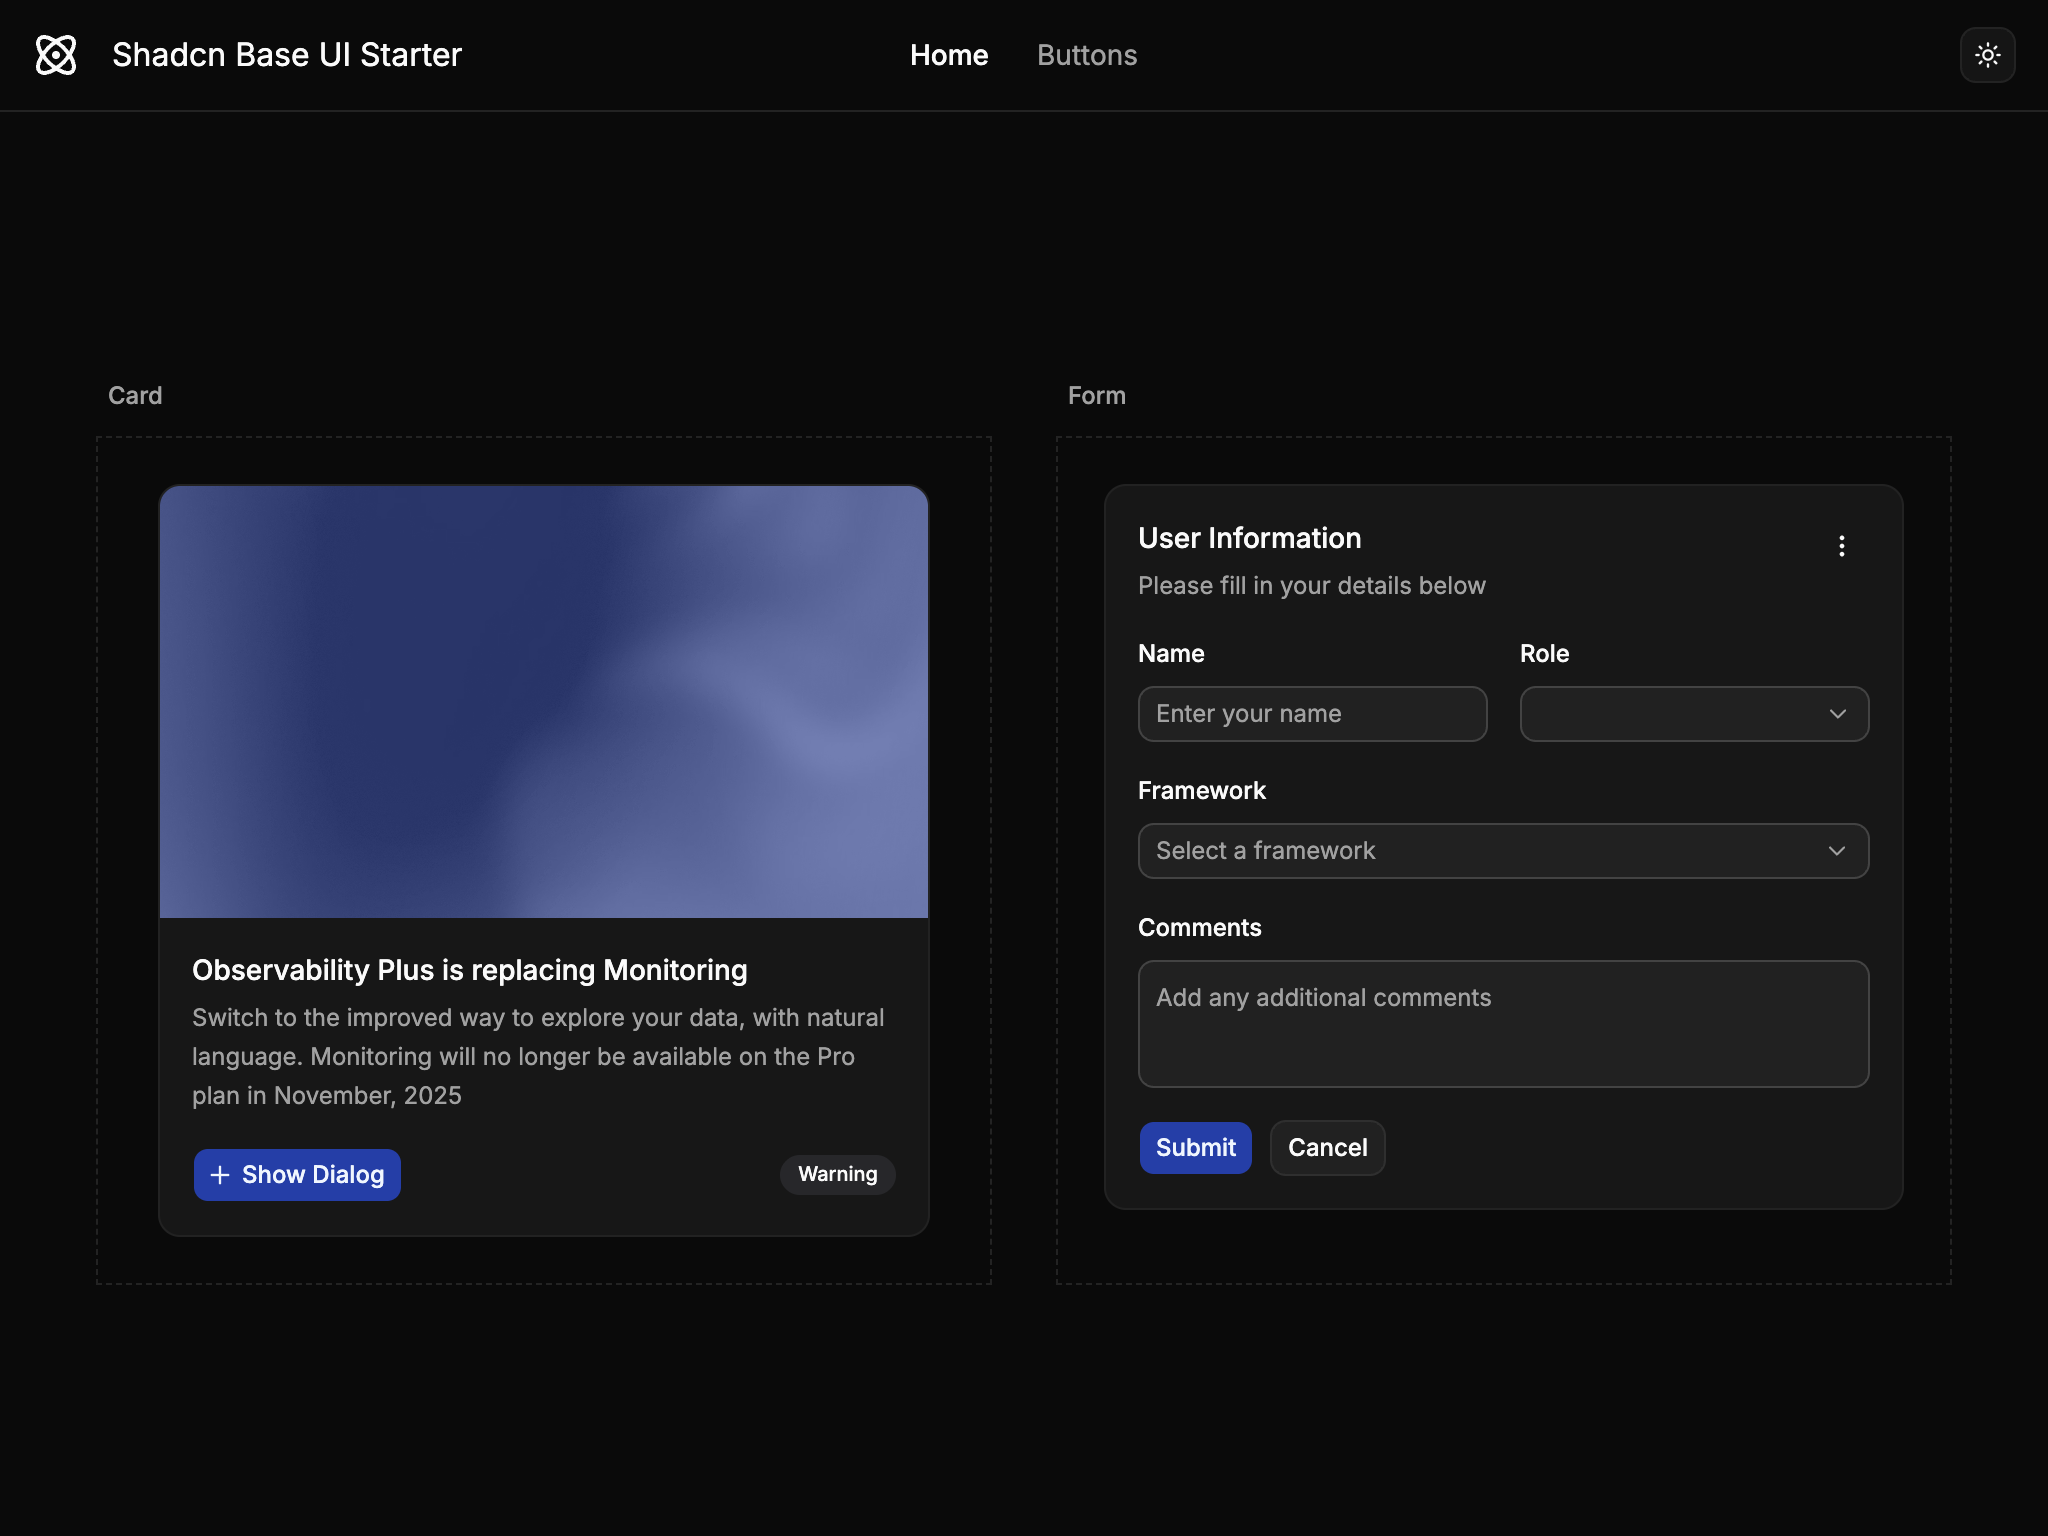
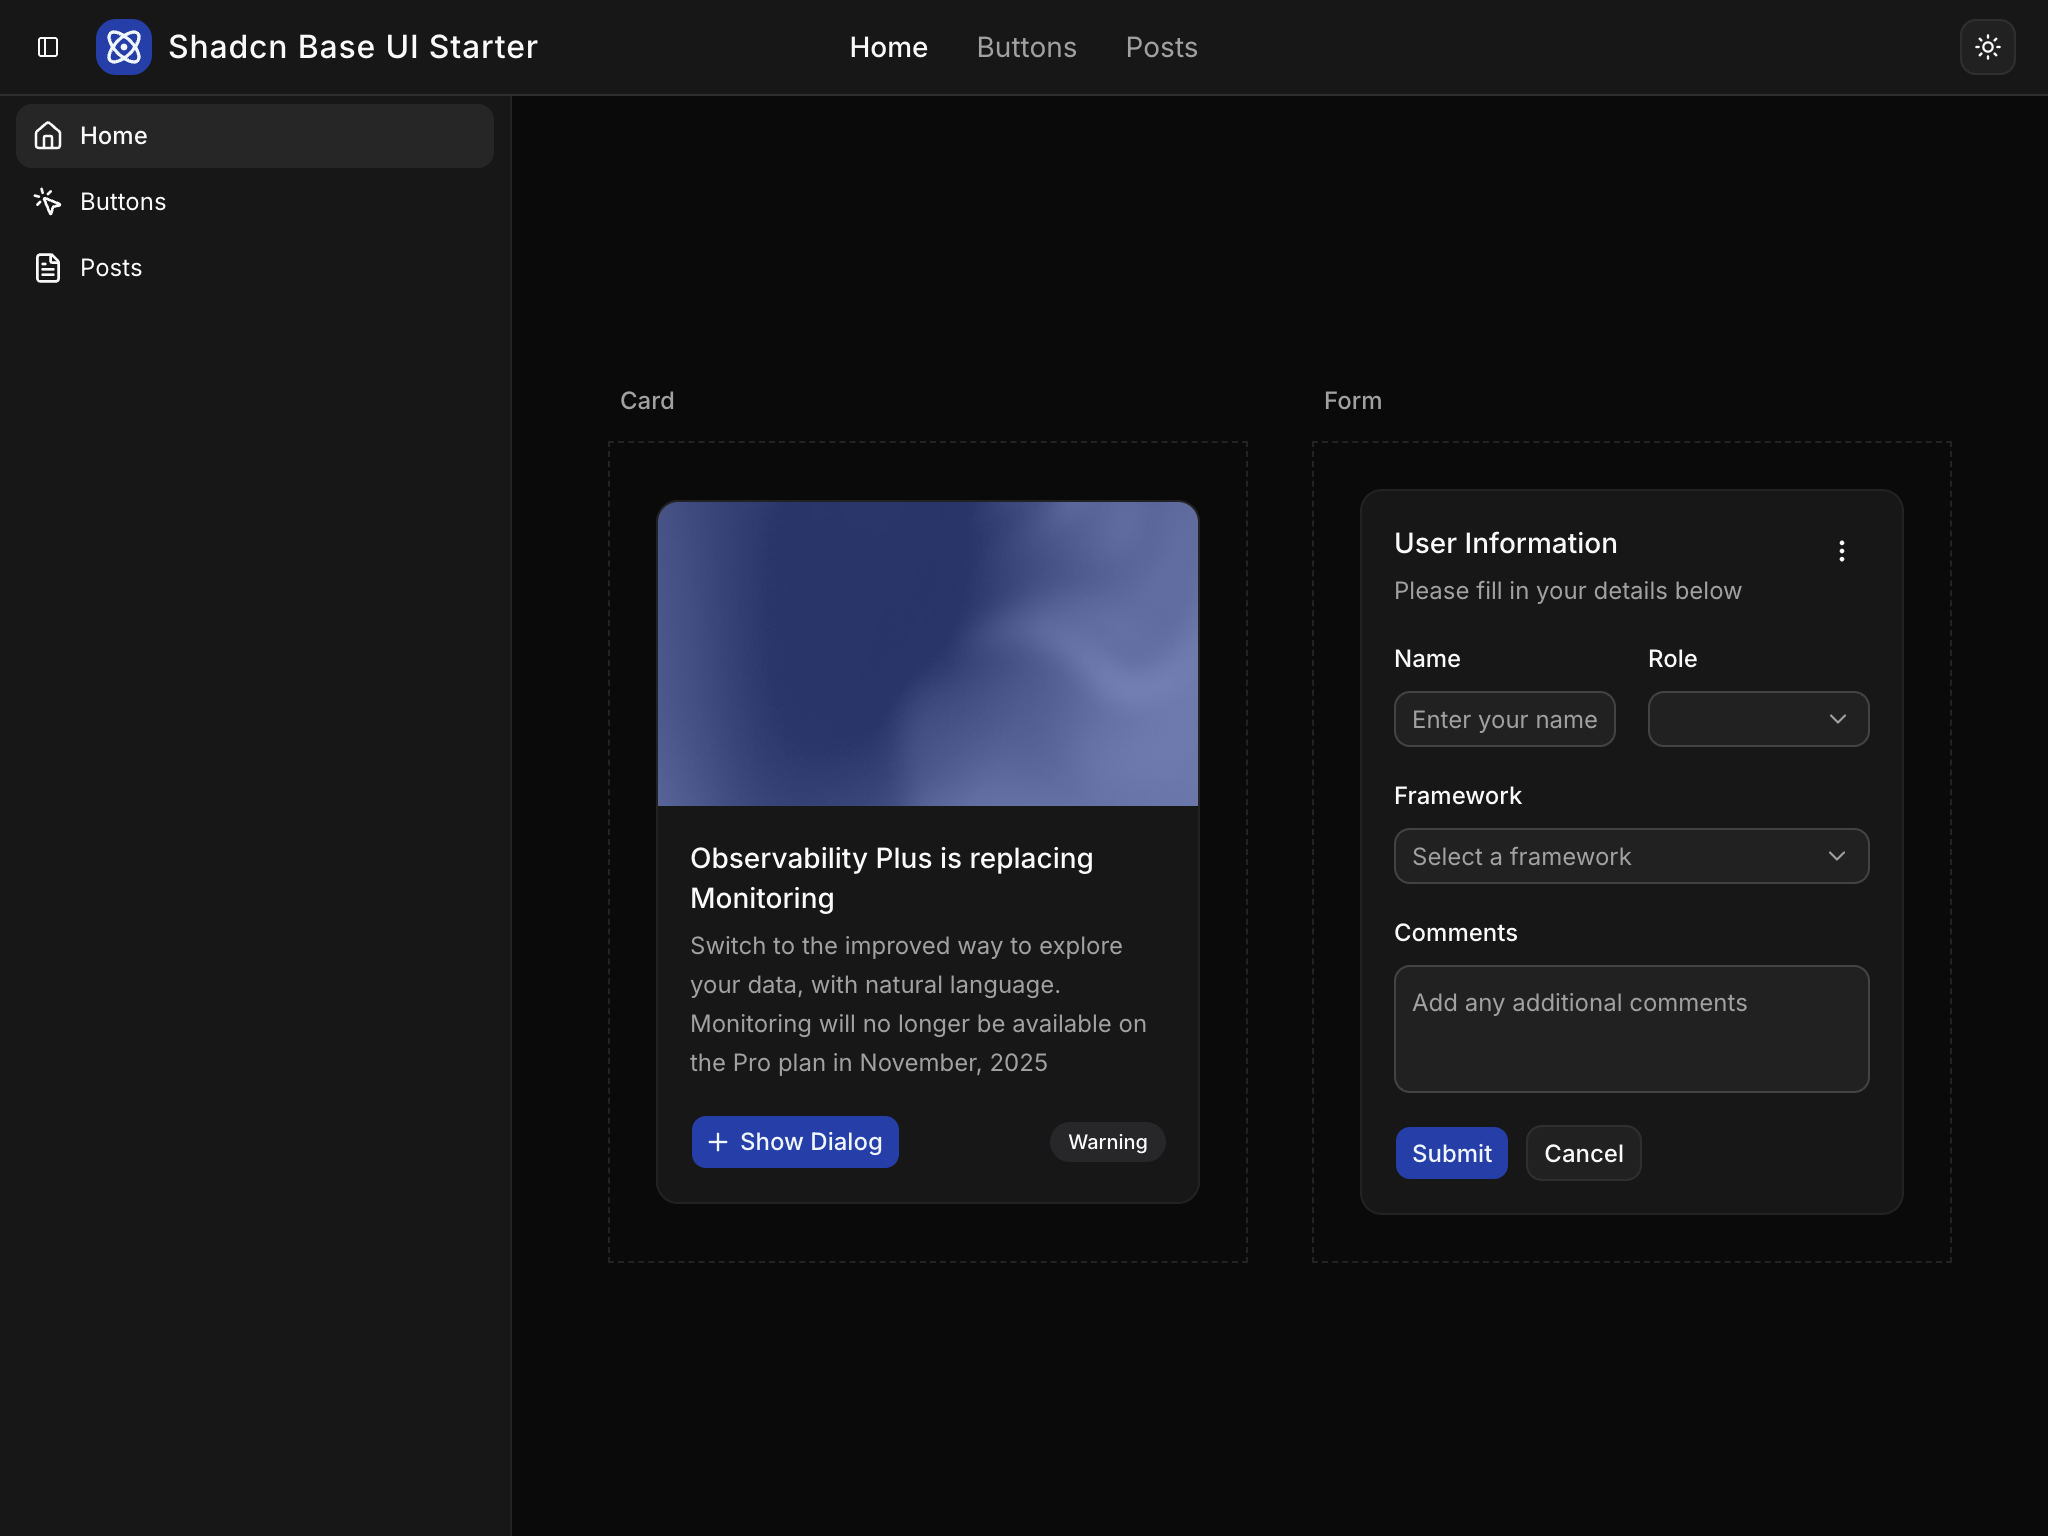
add sidebar

diff --git a/src/app/RootLayout.tsx b/src/app/RootLayout.tsx
@@ -1,28 +1,44 @@
 import { Outlet } from 'react-router';
 
 import { AppHeader } from '../components/AppHeader/AppHeader';
+import { AppSidebar } from '../components/AppSidebar/AppSidebar';
+import { SidebarInset, SidebarProvider } from '../components/ui/sidebar';
 
 /**
  * Root layout component that wraps the entire application.
  * - The application takes up the full height of the viewport.
  * - The app header is fixed height.
- * - The main content area takes up the remaining space and is scrollable.
- * - The routes are rendered in the main content area.
+ * - The area below the header takes up the remaining space.
+ * - It is divided into
+ *   - a sidebar on the left
+ *   - the main content area on the right which is scrollable
  *
- * |-------------------|
- * |     AppHeader     |
- * |-------------------|
- * | Main Content Area |
- * |     <Outlet>      |
- * |-------------------|
+ * ┌─────────────────────────────┐
+ * │          AppHeader          │
+ * ├─────────────────────────────┤
+ * │ Sidebar │ Main Content Area │
+ * │         │     <Outlet>      │
+ * └─────────────────────────────┘
  */
 export function RootLayout() {
+  // `header-height` is used to size the header and set the top of the sidebar
   return (
-    <div className="flex flex-col h-screen relative">
-      <AppHeader />
-      <main className="flex-1 min-h-0 overflow-x-hidden overflow-y-auto flex flex-col">
-        <Outlet />
-      </main>
+    <div className="[--header-height:calc(--spacing(12))]">
+      <SidebarProvider className="flex flex-col h-svh">
+        {/* App Header - Full width above everything */}
+        <AppHeader />
+
+        {/* Content below the header */}
+        <div className="flex flex-1 min-h-0">
+          {/* Sidebar - Full height on the left  */}
+          <AppSidebar />
+
+          {/* Main Content Area - Full height on the right and scrollable */}
+          <SidebarInset className="overflow-x-hidden overflow-y-auto">
+            <Outlet />
+          </SidebarInset>
+        </div>
+      </SidebarProvider>
     </div>
   );
 }

diff --git a/src/components/AppHeader/AppHeader.tsx b/src/components/AppHeader/AppHeader.tsx
@@ -3,21 +3,30 @@ import { AtomIcon } from 'lucide-react';
 import { ModeToggle } from './ModeToggle';
 import { Navigation } from './Navigation';
 import { siteConfig } from '../../config/SiteConfig';
+import { SidebarTrigger } from '../ui/sidebar';
 
 export function AppHeader() {
+  // `header-height` is set in the RootLayout
   return (
-    <header className="grid grid-cols-[1fr_auto_1fr] h-14 px-4 border-b">
+    <header className="grid grid-cols-[1fr_auto_1fr] items-center px-4 h-(--header-height) border-b border-border bg-card">
       {/* Left Section */}
-      <div className="flex items-center gap-4">
-        <AtomIcon className="size-6" />
-        <span>{siteConfig.name}</span>
+      <div className="flex items-center gap-3">
+        <SidebarTrigger className="-ml-1" />
+        <div className="flex items-center gap-2">
+          <div className="flex items-center justify-center size-7 rounded-lg bg-primary text-primary-foreground">
+            <AtomIcon className="size-5" />
+          </div>
+          <span className="text-base font-medium tracking-wide">
+            {siteConfig.name}
+          </span>
+        </div>
       </div>
 
       {/* Center Section */}
       <Navigation />
 
       {/* Right Section */}
-      <div className="flex items-center gap-6 justify-end">
+      <div className="flex items-center justify-end">
         <ModeToggle />
       </div>
     </header>

diff --git a/src/components/AppHeader/Navigation.tsx b/src/components/AppHeader/Navigation.tsx
@@ -1,30 +1,27 @@
 import { NavLink } from 'react-router';
 
-import { mainNavItems, RoutePathEnum } from '../../config/RouteConfig';
+import { mainNavItems } from '../../config/RouteConfig';
 import { cn } from '../../utils/cn';
 
 export function Navigation() {
   return (
     <nav className="flex items-center gap-4 text-sm lg:gap-6">
-      {Object.values(RoutePathEnum).map((routePath) => {
-        const navItem = mainNavItems.get(routePath)!;
-        return (
-          <NavLink
-            key={navItem.path}
-            to={navItem.path}
-            className={({ isActive }) =>
-              cn(
-                'transition-colors hover:text-foreground',
-                isActive
-                  ? 'font-medium text-foreground'
-                  : 'text-muted-foreground',
-              )
-            }
-          >
-            {navItem.title}
-          </NavLink>
-        );
-      })}
+      {mainNavItems.map((navItem) => (
+        <NavLink
+          key={navItem.path}
+          to={navItem.path}
+          className={({ isActive }) =>
+            cn(
+              'transition-colors hover:text-foreground',
+              isActive
+                ? 'font-medium text-foreground'
+                : 'text-muted-foreground',
+            )
+          }
+        >
+          {navItem.title}
+        </NavLink>
+      ))}
     </nav>
   );
 }

diff --git a/src/components/AppSidebar/AppSidebar.tsx b/src/components/AppSidebar/AppSidebar.tsx
@@ -1,0 +1,43 @@
+import { Link, useLocation } from 'react-router';
+
+import { mainNavItems } from '../../config/RouteConfig';
+import {
+  Sidebar,
+  SidebarContent,
+  SidebarGroup,
+  SidebarGroupContent,
+  SidebarMenu,
+  SidebarMenuButton,
+  SidebarMenuItem,
+} from '../ui/sidebar';
+
+export function AppSidebar() {
+  const location = useLocation();
+
+  // `header-height` is set in the RootLayout
+  return (
+    <Sidebar className="top-(--header-height) h-[calc(100svh-var(--header-height))]!">
+      <SidebarContent>
+        <SidebarGroup>
+          <SidebarGroupContent>
+            <SidebarMenu>
+              {mainNavItems.map(({ path, title, icon: Icon }) => (
+                <SidebarMenuItem key={path}>
+                  <SidebarMenuButton
+                    isActive={location.pathname === path}
+                    render={
+                      <Link to={path}>
+                        <Icon className="w-5 h-5" />
+                        <span>{title}</span>
+                      </Link>
+                    }
+                  />
+                </SidebarMenuItem>
+              ))}
+            </SidebarMenu>
+          </SidebarGroupContent>
+        </SidebarGroup>
+      </SidebarContent>
+    </Sidebar>
+  );
+}

diff --git a/src/routes.tsx b/src/routes.tsx
@@ -5,24 +5,23 @@ import { NotFoundPage } from './app/routes/not-found/NotFoundPage';
 import { PostsPage } from './app/routes/posts/PostsPage';
 import { mainNavItems } from './config/RouteConfig';
 
+import type { ReactNode } from 'react';
 import type { RouteObject } from 'react-router';
+
+const navElementByPath: Record<string, ReactNode> = {
+  '/': <HomePage />,
+  '/buttons': <ButtonsPage />,
+  '/posts': <PostsPage />,
+};
 
 export const routes: RouteObject[] = [
   {
     element: <RootLayout />,
     children: [
-      {
-        path: '/',
-        element: <HomePage />,
-      },
-      {
-        path: mainNavItems.get('buttons')!.path,
-        element: <ButtonsPage />,
-      },
-      {
-        path: mainNavItems.get('posts')!.path,
-        element: <PostsPage />,
-      },
+      ...mainNavItems.map((item) => ({
+        path: item.path,
+        element: navElementByPath[item.path],
+      })),
     ],
   },
   {

diff --git a/src/config/RouteConfig.ts b/src/config/RouteConfig.ts
@@ -1,18 +1,15 @@
-export const RoutePathEnum = {
-  Home: 'home',
-  Buttons: 'buttons',
-  Posts: 'posts',
-} as const;
+import { Home, MousePointerClick, FileText } from 'lucide-react';
 
-export type RoutePath = (typeof RoutePathEnum)[keyof typeof RoutePathEnum];
+import type { LucideIcon } from 'lucide-react';
 
 export interface NavItem {
   path: string;
   title: string;
+  icon: LucideIcon;
 }
 
-export const mainNavItems = new Map<RoutePath, NavItem>([
-  ['home', { path: '/', title: 'Home' }],
-  ['buttons', { path: '/buttons', title: 'Buttons' }],
-  ['posts', { path: '/posts', title: 'Posts' }],
-]);
+export const mainNavItems: NavItem[] = [
+  { path: '/', title: 'Home', icon: Home },
+  { path: '/buttons', title: 'Buttons', icon: MousePointerClick },
+  { path: '/posts', title: 'Posts', icon: FileText },
+];

diff --git a/src/styles/globals.css b/src/styles/globals.css
@@ -121,7 +121,7 @@
     @apply border-border outline-ring/50;
   }
   body {
-    @apply font-sans bg-background text-foreground;
+    @apply font-sans bg-background text-foreground antialiased;
   }
   html {
     @apply font-sans;
